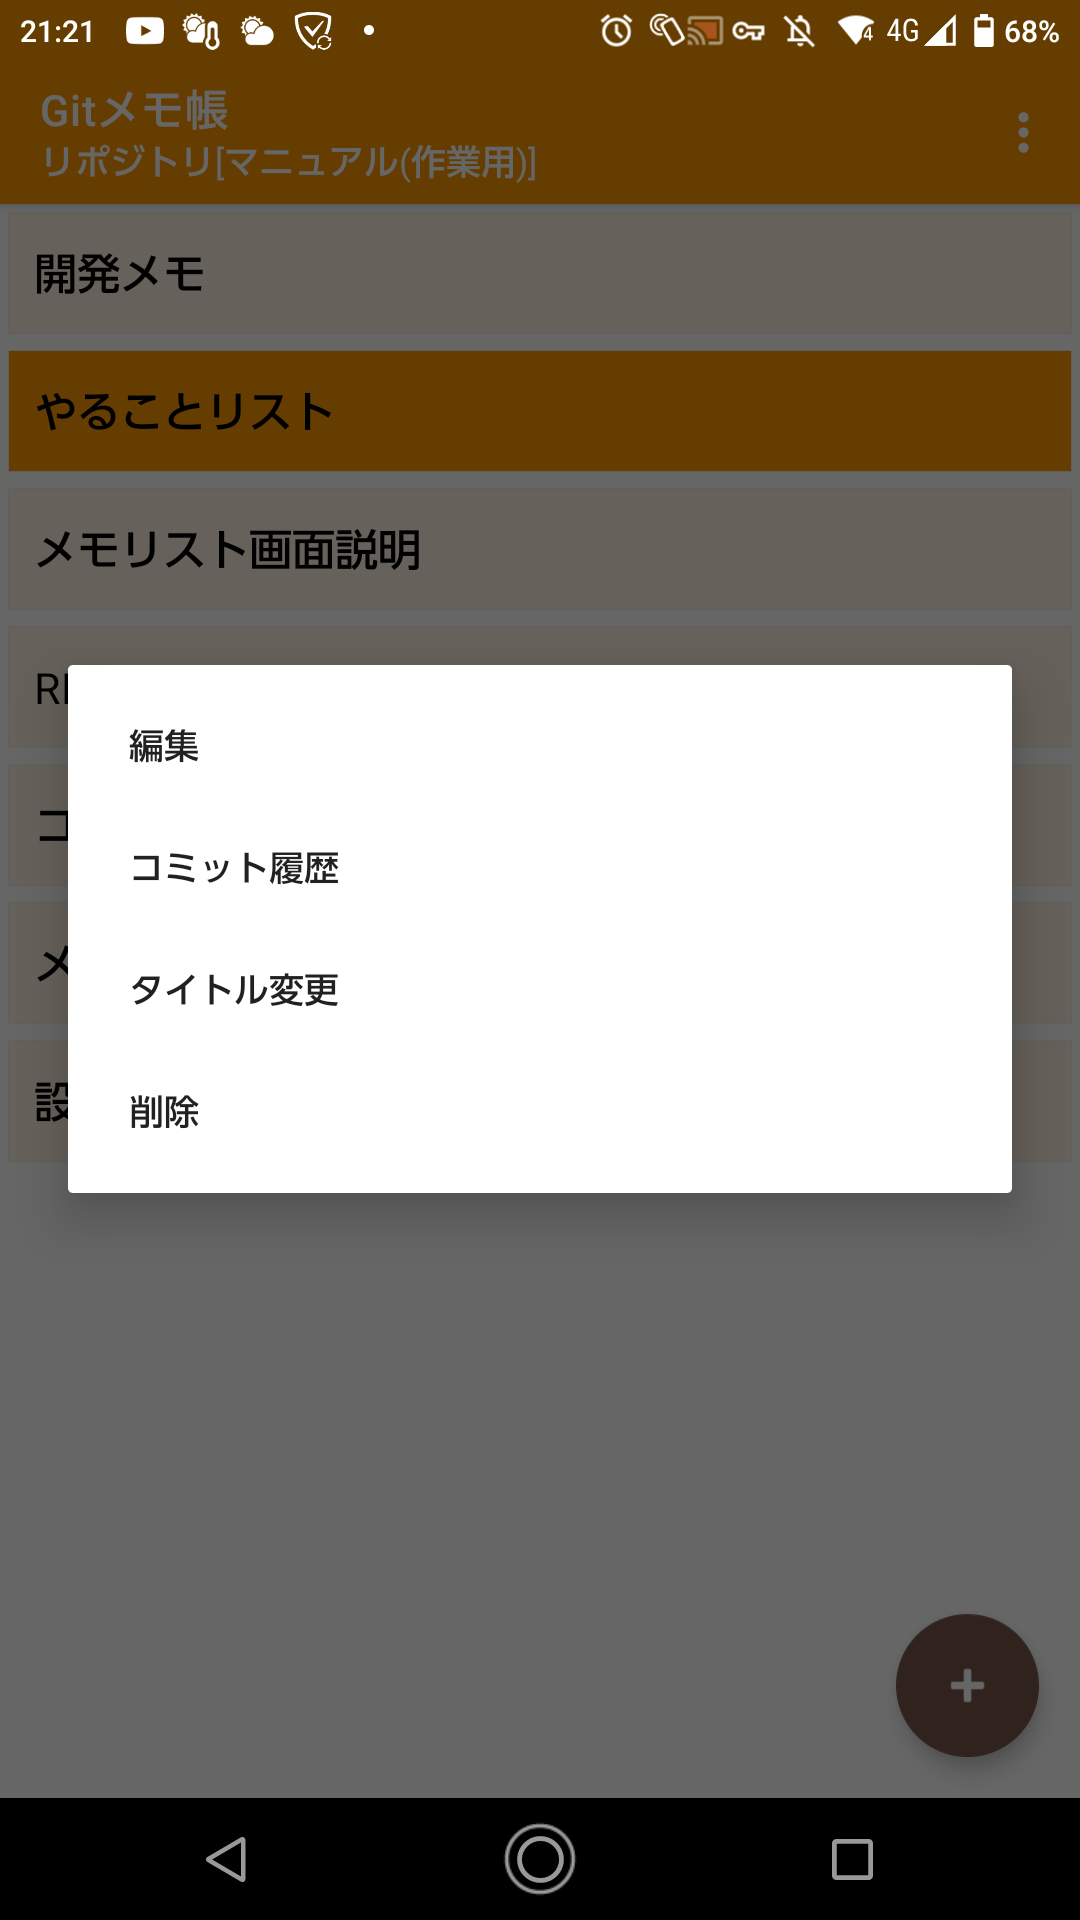
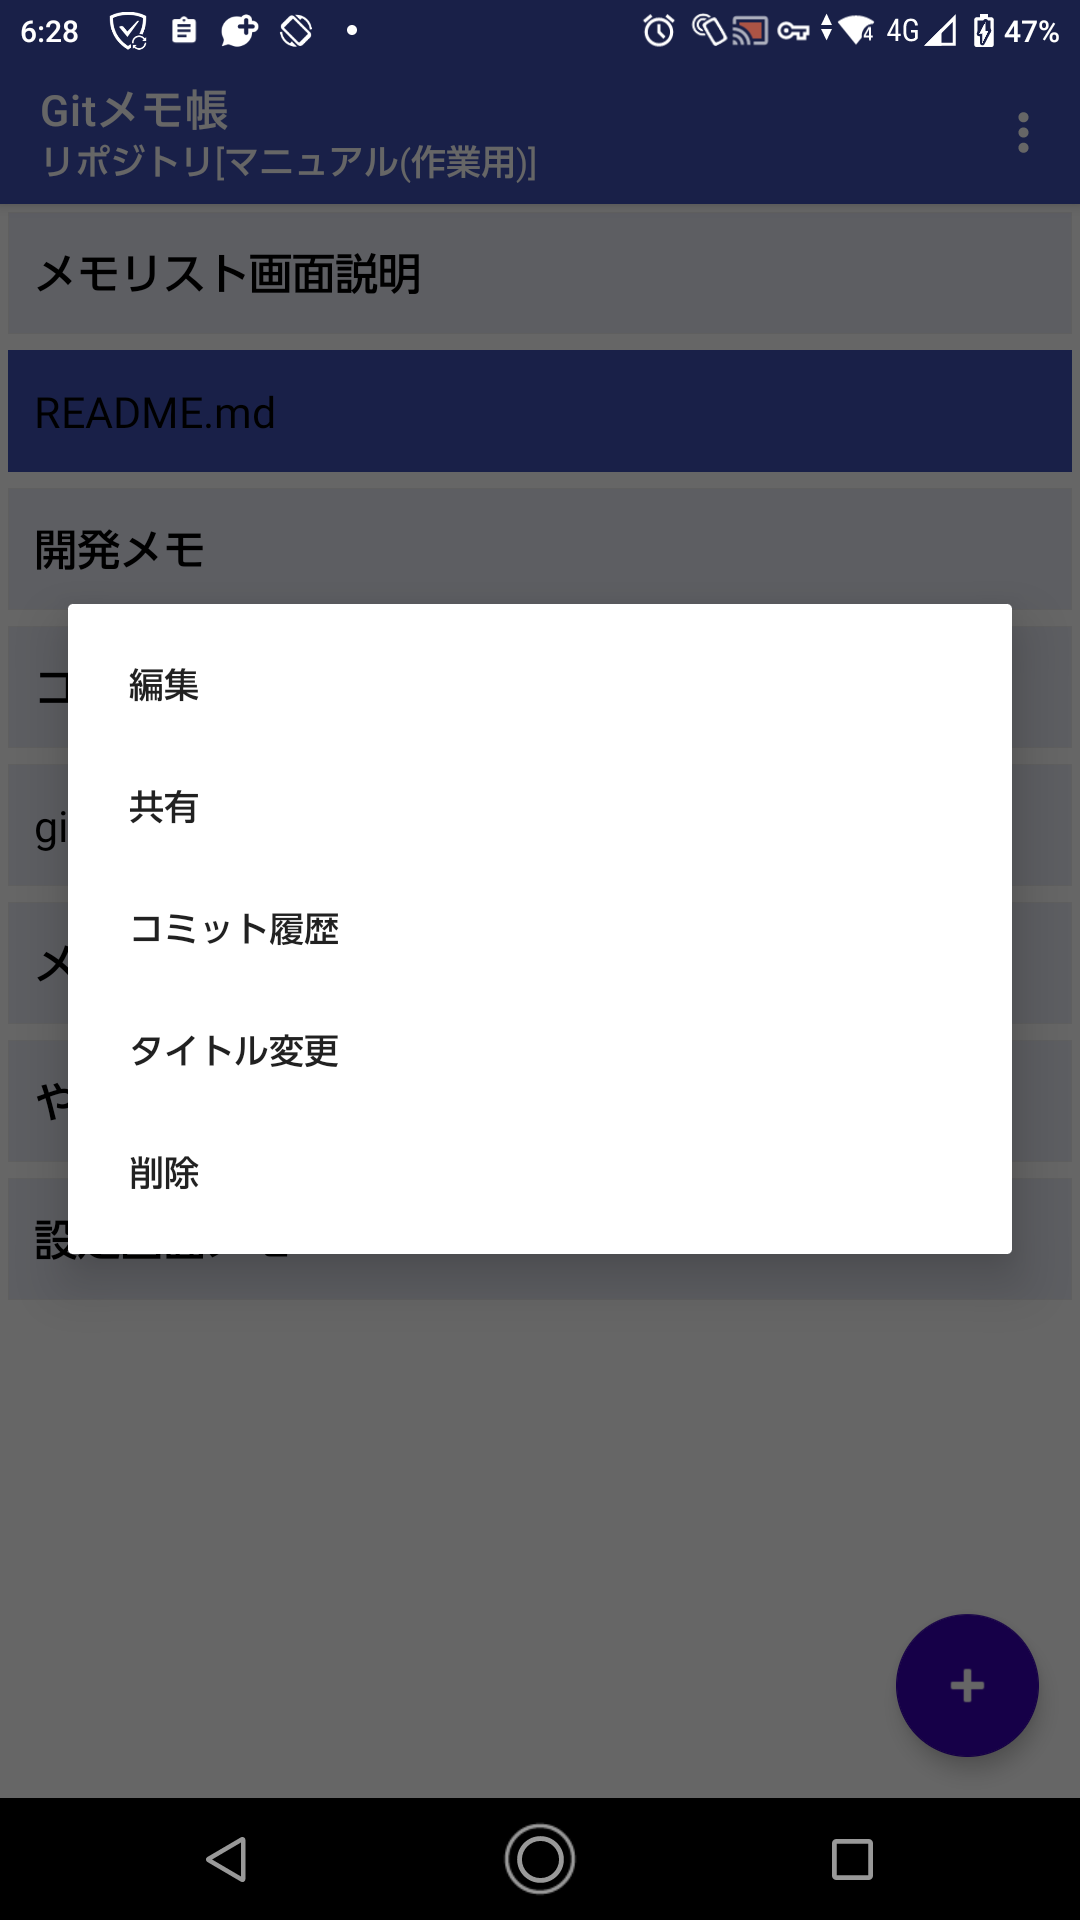
'release-0.2.0'

diff --git a/README.md b/README.md
@@ -3,22 +3,22 @@
 - メモ帳アプリです。
 - メモのバージョン管理ができます。
   - メモの内容を過去に保存した内容に戻すことが可能です。
-  - バージョン管理にはアプリ内蔵のGitリポジトリを利用しています。
-  - GitHubなどの外部のGitリポジトリが使用できます。
+  - アプリ内蔵のGitリポジトリを利用しています。
+  - GitHubなどの外部のGitリポジトリも使用できます。
 - Markdownファイルの表示ができます。
 - メモ編集時に入力内容のUndo/Redoが可能です。
 - メモの検索が可能です。
 - メモの一覧表示、ファイルのツリー表示できます。
 
 ## できないこと・制約事項
+- ファイルのコピー、移動といった操作はできません。
+- Gitブランチの作成、選択の機能がありません。デフォルトブランチのみ使用可能です。
 - Gitリポジトリの接続はhttpsのみ。ssh接続は対応していません。
 - GitHubなどの外部のGitリポジトリのアカウントは各自で取得が必要です。
 - 登録可能なGitリポジトリは10個までです。
-- Gitブランチの作成、選択の機能がありません。デフォルトブランチのみ使用可能です。
 - 巨大なリポジトリのgit cloneはできません。(エラーになります)
 - Markdownはテキスト表示のみ。画像表示はできません。
 - メモはリポジトリ直下のディレクトリに作成される。保存先のディレクトリは選択できません。
-- ファイルのコピー、移動といった操作はできません。
 
 ## 変更履歴
 - [変更履歴](./release.md)参照
@@ -35,7 +35,7 @@
 <img src="./img/01-list-004.png" width="30%"> <img src="./img/01-list-005.png" width="30%"> <img src="./img/01-list-006.png" width="30%">
 
 - メモ編集・参照画面  
-<img src="./img/02-editor-001.png" width="30%"> <img src="./img/02-editor-002.png" width="30%"> 
+<img src="./img/02-editor-001.png" width="30%"> <img src="./img/02-editor-002.png" width="30%"> <img src="./img/02-editor-003.png" width="30%"> 
 
 - コミット履歴・差分表示画面  
 <img src="./img/03-git-log-001.png" width="30%"> <img src="./img/03-git-log-002.png" width="30%"> <img src="./img/03-git-log-003.png" width="30%"> 

diff --git a/release.md b/release.md
@@ -4,9 +4,12 @@
 
 ### 0.2.0
 * 全般
-  * バックアップ/リストア機能を追加しました。
+  * バックアップ/リストア機能を追加。
+  * メモタイトルのインポート機能を追加。
+  * 共有機能(メモを別アプリに送る、別アプリから受け取る)を追加。
+  * アプリ内にGitリポジトリを追加する機能を追加。
 * メモリスト画面
-  * ステータス表示の追加しました。
+  * ステータス表示(ファイルタイプ、最終更新日、文字数)の追加。
 * メモ編集・参照画面
-  * ファイルツリービューモードにメモタイトル表示機能を追加しました。
-  * メモタイトルのインポート機能を追加しました。
+  * ファイルツリービューモードにメモタイトル表示機能を追加。
+

diff --git a/01-list/index.md b/01-list/index.md
@@ -34,6 +34,8 @@
 <img src="./img/01-list-detail-002.png" width="30%">  
 - 編集  
   選択したメモを編集モードで開きます。
+- 共有  
+  選択したメモを別のアプリに送ります。
 - コミット履歴  
   選択したメモのコミット履歴を表示します。
 - タイトル変更  
